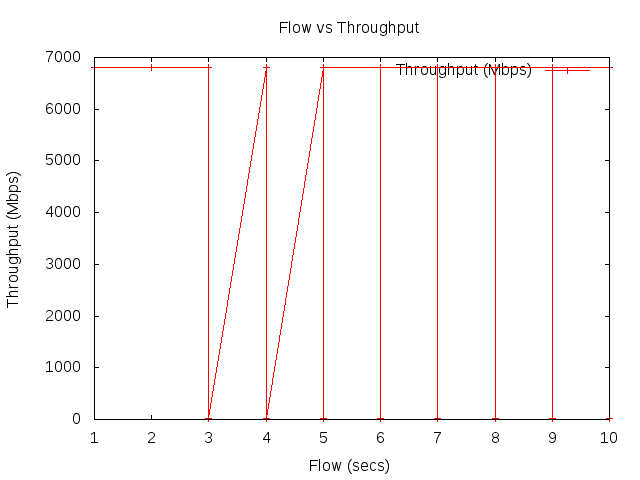
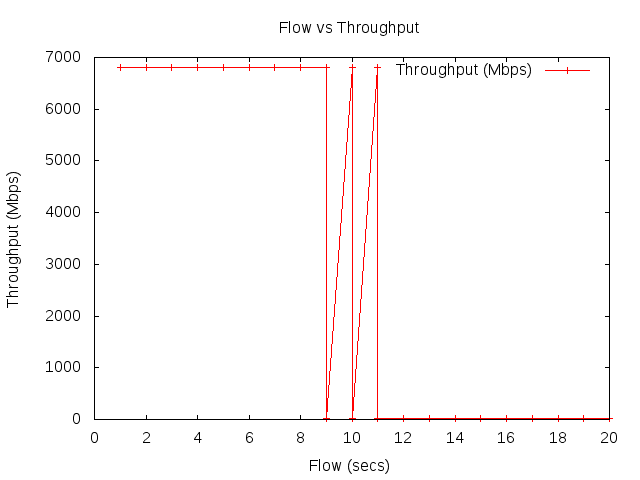
Signed-off-by: Daniel Costa <danielcosta@inf.ufg.br>

diff --git a/scratch/gnuplot.cc b/scratch/gnuplot.cc
@@ -72,14 +72,14 @@ void startAppLTE(NodeContainer,Ptr<Node>,Ipv4InterfaceContainer,Ptr<LteHelper>,N
 void calcDistance(NodeContainer,NodeContainer,NodeContainer);
 //======================================================================================
 
-double simulationTime				= 20;
+double simulationTime				= 21;
 double appStartTime					= 0.01;
 
 //Others Vars
 double staDistanceAp				= 0.0;
 double staDistanceEnb				= 0.0;
+bool flowmonitor					= true;
 bool enableLteEpsBearer				= false;
-bool flowmonitor					= false;
 bool verbose						= false; // packetSink dataFlow
 bool showConf						= true;
 bool netAnim						= false;
@@ -118,7 +118,7 @@ uint32_t maxAmsduSize				= 999999;//262143;
 uint32_t packetSize					= 1472;
 uint32_t appPort					= 9;
 std::string protocol 				= "ns3::UdpSocketFactory";
-std::string dataRate 				= "1Mb/s";
+std::string dataRate 				= "7Gb/s";
 
 //Nodes Vars
 double staSpeed						= 2.0; 	// m/s.
@@ -148,9 +148,9 @@ int main (int argc, char *argv[])
 	NS_LOG_UNCOND ("==> Setting Up Configs");
 ///////////////////////////////////////////////
 
-	/* No fragmentation and no RTS/CTS */
-	Config::SetDefault ("ns3::WifiRemoteStationManager::FragmentationThreshold", 	StringValue ("2200"));
-	Config::SetDefault ("ns3::WifiRemoteStationManager::RtsCtsThreshold", 			StringValue ("2200"));
+	/* Global params: no fragmentation, no RTS/CTS, fixed rate for all packets */
+	Config::SetDefault ("ns3::WifiRemoteStationManager::FragmentationThreshold", StringValue ("999999"));
+	Config::SetDefault ("ns3::WifiRemoteStationManager::RtsCtsThreshold", StringValue ("999999"));
 
 	Config::SetDefault ("ns3::OnOffApplication::DataRate", 		DataRateValue(DataRate(dataRate)));
     Config::SetDefault ("ns3::OnOffApplication::PacketSize", 	UintegerValue (packetSize));
@@ -261,8 +261,7 @@ int main (int argc, char *argv[])
 	wifiMac.SetMsduAggregatorForAc (AC_VI, "ns3::MsduStandardAggregator", "MaxAmsduSize", UintegerValue (maxAmsduSize));
 
 	wifiChannel.SetPropagationDelay ("ns3::ConstantSpeedPropagationDelayModel");
-	//wifiChannel.AddPropagationLoss ("ns3::FriisPropagationLossModel", "Lambda", DoubleValue(3e8/60e9));
-	//wifiChannel.AddPropagationLoss ("ns3::FriisPropagationLossModel", "Frequency", DoubleValue (5e9));
+	wifiChannel.AddPropagationLoss ("ns3::FriisPropagationLossModel", "Frequency", DoubleValue (60e3));
 
 	wifiPhy.SetChannel (wifiChannel.Create ());
 	wifiPhy.SetPcapDataLinkType (YansWifiPhyHelper::DLT_IEEE802_11);
@@ -622,6 +621,7 @@ int main (int argc, char *argv[])
 	std::cout << std::endl;
 	std::cout << "==========TIMES========== " << "\n";
 	std::cout << "Simulation time: " << Simulator::Now().GetSeconds () << " secs\n";
+	std::cout << "GNU Plot time: " << simulationTime << " secs\n";
 
 	Simulator::Destroy ();
 
@@ -656,92 +656,95 @@ void flowmonitorOutput(Ptr<FlowMonitor> flowMon, FlowMonitorHelper *fmhelper, Gn
 	Ptr<Ipv4FlowClassifier> classifier = DynamicCast<Ipv4FlowClassifier> (fmhelper->GetClassifier ());
 	FlowMonitor::FlowStatsContainer stats = flowMon->GetFlowStats ();
 
-	for (std::map<FlowId, FlowMonitor::FlowStats>::const_iterator i = stats.begin (); i != stats.end (); ++i)
+	if((double) Simulator::Now().GetSeconds() < simulationTime)
 	{
-		calcDistance(wifiApNode,wifiStaNode,enbNodes);
-
-		Ipv4FlowClassifier::FiveTuple t = classifier->FindFlow (i->first);
-
-		difftx = i->second.timeLastTxPacket.GetSeconds() - i->second.timeFirstTxPacket.GetSeconds();
-		diffrx = i->second.timeLastRxPacket.GetSeconds() - i->second.timeFirstRxPacket.GetSeconds();
-		diffrxtx = i->second.timeLastRxPacket.GetSeconds() - i->second.timeFirstTxPacket.GetSeconds();
-
-		txbitrate_value = (double) i->second.txBytes * 8 / difftx / 1024 / 1024;
-		txOffered = (double) i->second.txBytes * 8.0 / difftx / 1024 / 1024;
-
-		if (i->second.rxPackets != 0)
+		for (std::map<FlowId, FlowMonitor::FlowStats>::const_iterator i = stats.begin (); i != stats.end (); ++i)
 		{
-			rxbitrate_value = (double) i->second.rxBytes * 8 / diffrx / 1024 / 1024;
-			delay_value = (double) i->second.delaySum.GetSeconds() / (double) i->second.rxPackets;
-			throughput = (double) i->second.rxBytes * 8.0 / diffrxtx / 1024 / 1024;
-		}
-		else
-		{
-			rxbitrate_value = 0;
-			delay_value = 0;
-			throughput = 0;
-		}
+			calcDistance(wifiApNode,wifiStaNode,enbNodes);
 
-		if(flowmonitor)
-		{
-			if (i->first == 1 && t.sourceAddress == "1.0.0.1" && staDistanceAp <= 12)
+			Ipv4FlowClassifier::FiveTuple t = classifier->FindFlow (i->first);
+
+			difftx = i->second.timeLastTxPacket.GetSeconds() - i->second.timeFirstTxPacket.GetSeconds();
+			diffrx = i->second.timeLastRxPacket.GetSeconds() - i->second.timeFirstRxPacket.GetSeconds();
+			diffrxtx = i->second.timeLastRxPacket.GetSeconds() - i->second.timeFirstTxPacket.GetSeconds();
+
+			txbitrate_value = (double) i->second.txBytes * 8 / difftx / 1024 / 1024;
+			txOffered = (double) i->second.txBytes * 8.0 / difftx / 1024 / 1024;
+
+			if (i->second.rxPackets != 0)
 			{
-				color("31");
-				std::cout << "===========WIFI================= " << "\n";
-				std::cout << "Flow " << i->first << " (" << t.sourceAddress << " -> " << t.destinationAddress << ") " << (double) Simulator::Now().GetSeconds() << "\n";
-				color("0");
-				std::cout << "  Tx Packets: " 		<< i->second.txPackets 				<< "\n";
-				std::cout << "  Tx Bytes:   " 		<< i->second.txBytes 				<< "\n";
-				std::cout << "  Tx bitrate: " 		<< txbitrate_value 					<< " Mbps\n";
-				std::cout << "  TxOffered:  " 		<< txOffered 						<< " Mbps\n\n";
-
-				std::cout << "  Rx Packets: " 		<< i->second.rxPackets 				<< "\n";
-				std::cout << "  Rx Bytes:   " 		<< i->second.rxBytes 				<< "\n";
-				std::cout << "  Rx bitrate: " 		<< rxbitrate_value 					<< " Mbps\n\n";
-
-				std::cout << "  Lost Packets: " 	<< i->second.lostPackets 			<< "\n";
-				std::cout << "  Dropped Packets: " 	<< i->second.packetsDropped.size() 	<< "\n";
-				std::cout << "  JitterSum: " 		<< i->second.jitterSum 				<< "\n";
-				std::cout << "  Throughput: " 		<< throughput 						<< " Mbps\n\n";
-
-				std::cout << "  Distance from AP: " << staDistanceAp					<< "\n";
-				std::cout << "  Distance from Enb: "<< staDistanceEnb 					<< "\n";
-				std::cout << "  Average delay: " 	<< delay_value 						<< "s\n";
+				rxbitrate_value = (double) i->second.rxBytes * 8 / diffrx / 1024 / 1024;
+				delay_value = (double) i->second.delaySum.GetSeconds() / (double) i->second.rxPackets;
+				throughput = (double) i->second.rxBytes * 8.0 / diffrxtx / 1024 / 1024;
 			}
-			else if(i->first > 1 )
+			else
 			{
-				color("31");
-				std::cout << "===========LTE================= " << "\n";
-				std::cout << "Flow " << i->first << " (" << t.sourceAddress << " -> " << t.destinationAddress << ") " << (double) Simulator::Now().GetSeconds() << "\n";
-				color("0");
-				std::cout << "  Tx Packets: " 		<< i->second.txPackets 				<< "\n";
-				std::cout << "  Tx Bytes:   " 		<< i->second.txBytes 				<< "\n";
-				std::cout << "  Tx bitrate: " 		<< txbitrate_value 					<< " Mbps\n";
-				std::cout << "  TxOffered:  " 		<< txOffered 						<< " Mbps\n\n";
-
-				std::cout << "  Rx Packets: " 		<< i->second.rxPackets 				<< "\n";
-				std::cout << "  Rx Bytes:   " 		<< i->second.rxBytes 				<< "\n";
-				std::cout << "  Rx bitrate: " 		<< rxbitrate_value 					<< " Mbps\n\n";
-
-				std::cout << "  Lost Packets: " 	<< i->second.lostPackets 			<< "\n";
-				std::cout << "  Dropped Packets: " 	<< i->second.packetsDropped.size() 	<< "\n";
-				std::cout << "  JitterSum: " 		<< i->second.jitterSum 				<< "\n";
-				std::cout << "  Throughput: " 		<< throughput 						<< " Mbps\n\n";
-
-				std::cout << "  Distance from AP: " << staDistanceAp					<< "\n";
-				std::cout << "  Distance from Enb: "<< staDistanceEnb 					<< "\n";
-				std::cout << "  Average delay: " 	<< delay_value 						<< "s\n";
+				rxbitrate_value = 0;
+				delay_value = 0;
+				throughput = 0;
 			}
+
+			if(flowmonitor)
+			{
+				if (i->first < 2 && t.sourceAddress == "1.0.0.1" && staDistanceAp <= 12)
+				{
+					color("31");
+					std::cout << "===========WIFI================= " << "\n";
+					std::cout << "Flow " << i->first << " (" << t.sourceAddress << " -> " << t.destinationAddress << ") " << (double) Simulator::Now().GetSeconds() << " secs\n";
+					color("0");
+					std::cout << "  Tx Packets: " 		<< i->second.txPackets 				<< "\n";
+					std::cout << "  Tx Bytes:   " 		<< i->second.txBytes 				<< "\n";
+					std::cout << "  Tx bitrate: " 		<< txbitrate_value 					<< " Mbps\n";
+					std::cout << "  TxOffered:  " 		<< txOffered 						<< " Mbps\n\n";
+
+					std::cout << "  Rx Packets: " 		<< i->second.rxPackets 				<< "\n";
+					std::cout << "  Rx Bytes:   " 		<< i->second.rxBytes 				<< "\n";
+					std::cout << "  Rx bitrate: " 		<< rxbitrate_value 					<< " Mbps\n\n";
+
+					std::cout << "  Lost Packets: " 	<< i->second.lostPackets 			<< "\n";
+					std::cout << "  Dropped Packets: " 	<< i->second.packetsDropped.size() 	<< "\n";
+					std::cout << "  JitterSum: " 		<< i->second.jitterSum 				<< "\n";
+					std::cout << "  Throughput: " 		<< throughput 						<< " Mbps\n\n";
+
+					std::cout << "  Distance from AP: " << staDistanceAp					<< "\n";
+					std::cout << "  Distance from Enb: "<< staDistanceEnb 					<< "\n";
+					std::cout << "  Average delay: " 	<< delay_value 						<< "s\n";
+				}
+				else
+				{
+					color("31");
+					std::cout << "===========LTE================= " << "\n";
+					std::cout << "Flow " << i->first << " (" << t.sourceAddress << " -> " << t.destinationAddress << ") " << (double) Simulator::Now().GetSeconds() << " secs\n";
+					color("0");
+					std::cout << "  Tx Packets: " 		<< i->second.txPackets 				<< "\n";
+					std::cout << "  Tx Bytes:   " 		<< i->second.txBytes 				<< "\n";
+					std::cout << "  Tx bitrate: " 		<< txbitrate_value 					<< " Mbps\n";
+					std::cout << "  TxOffered:  " 		<< txOffered 						<< " Mbps\n\n";
+
+					std::cout << "  Rx Packets: " 		<< i->second.rxPackets 				<< "\n";
+					std::cout << "  Rx Bytes:   " 		<< i->second.rxBytes 				<< "\n";
+					std::cout << "  Rx bitrate: " 		<< rxbitrate_value 					<< " Mbps\n\n";
+
+					std::cout << "  Lost Packets: " 	<< i->second.lostPackets 			<< "\n";
+					std::cout << "  Dropped Packets: " 	<< i->second.packetsDropped.size() 	<< "\n";
+					std::cout << "  JitterSum: " 		<< i->second.jitterSum 				<< "\n";
+					std::cout << "  Throughput: " 		<< throughput 						<< " Mbps\n\n";
+
+					std::cout << "  Distance from AP: " << staDistanceAp					<< "\n";
+					std::cout << "  Distance from Enb: "<< staDistanceEnb 					<< "\n";
+					std::cout << "  Average delay: " 	<< delay_value 						<< "s\n";
+				}
+			}
+
+			x = (double) Simulator::Now().GetSeconds();
+
+			if(t.sourceAddress == "1.0.0.1" && staDistanceAp <= 13)
+				y = (double) txOffered;
+			else
+				y = throughput;
+
+			dataSet.Add(x,y);
 		}
-
-		x = (double) Simulator::Now().GetSeconds();
-
-		if(t.sourceAddress == "1.0.0.1" && staDistanceAp <= 13)
-			y = (double) txOffered;
-		else
-			y = throughput;
-
-		dataSet.Add(x,y);
 	}
 
 	Simulator::Schedule(Seconds(1), &flowmonitorOutput, flowMon, fmhelper, dataSet);
@@ -753,7 +756,7 @@ void startAppWifi(NodeContainer wifiStaNode, Ptr<Node> remoteHost, Ipv4Interface
 
 	for (uint32_t i = 0; i < nStations; i++)
 	{
-		NS_LOG_UNCOND ("Initializing apps WIFI on node " << i<<nStations);
+		NS_LOG_UNCOND ("Initializing apps WIFI on node " << i);
 		OnOffHelper onOffHelperWifi (protocol, Address (InetSocketAddress (wifiStaInterface.GetAddress(i), appPort)));
 		appSourceWifi = onOffHelperWifi.Install (remoteHost);
 		PacketSinkHelper sink (protocol,Address (InetSocketAddress (Ipv4Address::GetAny (), appPort)));
@@ -802,7 +805,6 @@ void startAppLTE(NodeContainer wifiStaNode, Ptr<Node> remoteHostLTE, Ipv4Interfa
 
 	appSourceLTE.Stop(Seconds (simulationTime));
 	appSinkLTE.Stop(Seconds (simulationTime));
-
 }
 
 void calcDistance(NodeContainer wifiApNode, NodeContainer wifiStaNode, NodeContainer enbNodes)
